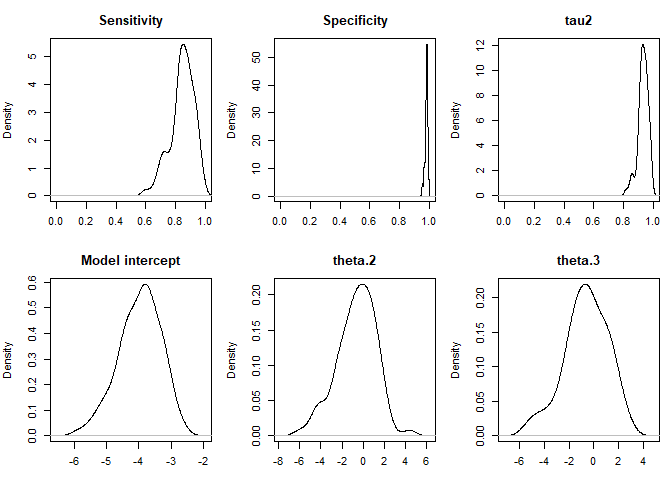
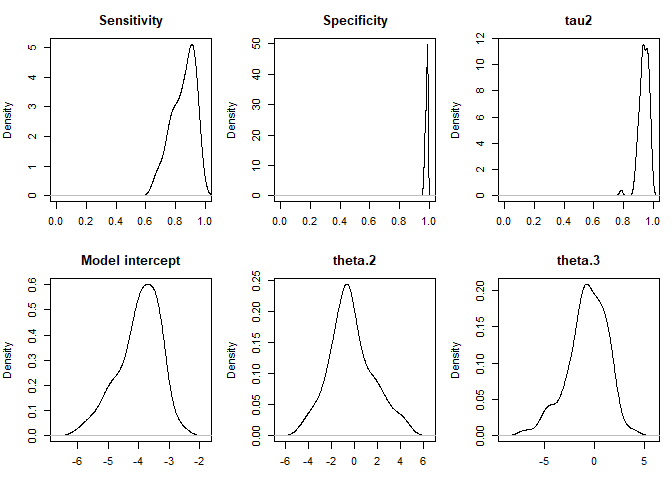
Documentation improved and some bugs related to the date format have been corrected.

diff --git a/README.md b/README.md
@@ -349,16 +349,16 @@ param
     ## # A tibble: 80 x 9
     ##    .chain .iteration .draw    Se    Sp  tau2 theta.1 theta.2 theta.3
     ##     <int>      <int> <int> <dbl> <dbl> <dbl>   <dbl>   <dbl>   <dbl>
-    ##  1      1          1     1 0.936 0.984 0.927   -3.31   1.71   -0.771
-    ##  2      1          2     2 0.851 0.983 0.936   -3.96  -2.52   -2.70 
-    ##  3      1          3     3 0.857 0.963 0.966   -3.74   1.42    1.76 
-    ##  4      1          4     4 0.821 0.979 0.924   -4.68   0.542  -2.24 
-    ##  5      1          5     5 0.845 0.976 0.915   -3.61  -0.224   1.60 
-    ##  6      1          6     6 0.756 0.978 0.853   -3.78   1.89    1.06 
-    ##  7      1          7     7 0.940 0.978 0.927   -4.26  -3.05   -0.293
-    ##  8      1          8     8 0.848 0.979 0.963   -4.31  -1.63    1.48 
-    ##  9      1          9     9 0.913 0.967 0.966   -5.40   1.72    0.408
-    ## 10      1         10    10 0.922 0.952 0.918   -5.08   0.167   0.921
+    ##  1      1          1     1 0.958 0.970 0.954   -3.92  3.96     0.304
+    ##  2      1          2     2 0.854 0.984 0.910   -3.21 -3.39    -0.544
+    ##  3      1          3     3 0.747 0.986 0.878   -3.51 -0.325   -1.89 
+    ##  4      1          4     4 0.924 0.987 0.925   -3.86  0.0848  -0.974
+    ##  5      1          5     5 0.896 0.990 0.939   -3.82  3.80    -2.92 
+    ##  6      1          6     6 0.785 0.988 0.960   -5.53  0.0991  -1.80 
+    ##  7      1          7     7 0.825 0.974 0.961   -4.35  0.601   -4.90 
+    ##  8      1          8     8 0.875 0.990 0.966   -3.79 -2.84     0.327
+    ##  9      1          9     9 0.756 0.963 0.975   -5.19 -0.887    3.83 
+    ## 10      1         10    10 0.726 0.988 0.930   -3.19 -1.81    -3.00 
     ## # … with 70 more rows
 
 The columns of this dataset are:
@@ -398,16 +398,16 @@ proba_inf
     ## # Groups:   herd_id [3]
     ##    .chain .iteration .draw herd_id predicted_proba predicted_status
     ##     <int>      <int> <int>   <int>           <dbl>            <dbl>
-    ##  1      1          1     1       1         0.0352                 0
-    ##  2      1          1     1       2         0.00303                0
-    ##  3      1          1     1       3         0.0352                 0
-    ##  4      1          2     2       1         0.936                  1
-    ##  5      1          2     2       2         0.00202                0
-    ##  6      1          2     2       3         0.0187                 0
-    ##  7      1          3     3       1         0.966                  1
-    ##  8      1          3     3       2         0.00428                0
-    ##  9      1          3     3       3         0.0232                 0
-    ## 10      1          4     4       1         0.00921                0
+    ##  1      1          1     1       1         0.0195                 0
+    ##  2      1          1     1       2         0.00148                0
+    ##  3      1          1     1       3         0.0195                 0
+    ##  4      1          2     2       1         0.0389                 0
+    ##  5      1          2     2       2         0.00372                0
+    ##  6      1          2     2       3         0.0389                 0
+    ##  7      1          3     3       1         0.0291                 0
+    ##  8      1          3     3       2         0.00729                0
+    ##  9      1          3     3       3         0.0291                 0
+    ## 10      1          4     4       1         0.0205                 0
     ## # … with 230 more rows
 
 The first columns of this dataset are the same as above. The following
